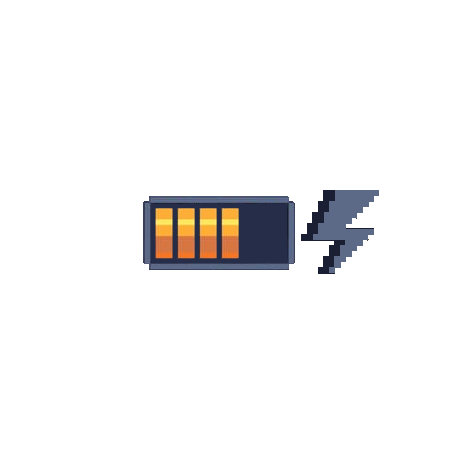
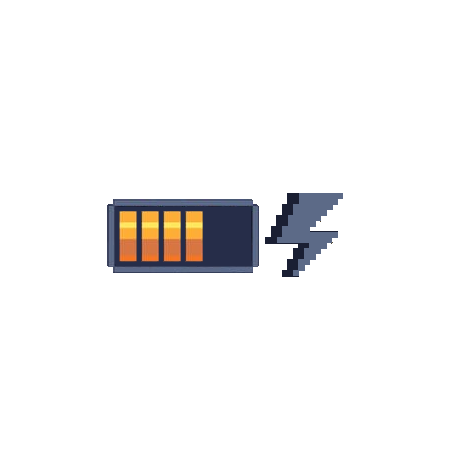
Adjust battery position

Changed region(s): [[0.2178, 0.3872, 0.84, 0.5957]]

diff --git a/dist/main.js b/dist/main.js
@@ -94,7 +94,7 @@
 /***/ (function(module, __webpack_exports__, __webpack_require__) {
 
 "use strict";
-eval("__webpack_require__.r(__webpack_exports__);\n/* harmony export (binding) */ __webpack_require__.d(__webpack_exports__, \"default\", function() { return Battery; });\nclass Battery {\n  constructor(game){\n    this.image0 = document.getElementById(\"battery-0\");\n    this.image1 = document.getElementById(\"battery-1\");\n    this.image2 = document.getElementById(\"battery-2\");\n    this.image3 = document.getElementById(\"battery-3\");\n    this.image4 = document.getElementById(\"battery-4\");\n    this.image5 = document.getElementById(\"battery-5\");\n    this.image6 = document.getElementById(\"battery-6\");\n\n    this.game = game;\n  }\n\n  draw(ctx){\n    console.log(`meter: ${this.game.meter}`);\n    \n    if (this.game.meter > 6) ctx.drawImage(this.image6, 10, 40, 100, 100);\n\n      switch (this.game.meter) {\n      case 0:\n        ctx.drawImage(this.image0, 10, 40, 100, 100);\n        break;\n      case 1:\n        ctx.drawImage(this.image1, 10, 40, 100, 100);\n        break;\n      case 2:\n        ctx.drawImage(this.image2, 10, 40, 100, 100);\n        break;\n      case 3:\n        ctx.drawImage(this.image3, 10, 40, 100, 100);\n        break;\n      case 4:\n        ctx.drawImage(this.image4, 10, 40, 100, 100);\n        break;\n      case 5:\n        ctx.drawImage(this.image5, 10, 40, 100, 100);\n        break;\n      case 6:\n        ctx.drawImage(this.image6, 10, 40, 100, 100);\n        break;\n    }\n    \n  }\n\n  update(dt){\n\n  }\n}\n\n//# sourceURL=webpack:///./src/battery.js?");
+eval("__webpack_require__.r(__webpack_exports__);\n/* harmony export (binding) */ __webpack_require__.d(__webpack_exports__, \"default\", function() { return Battery; });\nclass Battery {\n  constructor(game){\n    this.image0 = document.getElementById(\"battery-0\");\n    this.image1 = document.getElementById(\"battery-1\");\n    this.image2 = document.getElementById(\"battery-2\");\n    this.image3 = document.getElementById(\"battery-3\");\n    this.image4 = document.getElementById(\"battery-4\");\n    this.image5 = document.getElementById(\"battery-5\");\n    this.image6 = document.getElementById(\"battery-6\");\n\n    this.game = game;\n    this.size = 100;\n  }\n\n  draw(ctx){\n    console.log(`meter: ${this.game.meter}`);\n\n    if (this.game.meter > 6) ctx.drawImage(this.image6, -15, -10, this.size, this.size);\n\n      switch (this.game.meter) {\n      case 0:\n        ctx.drawImage(this.image0, -15, -10, this.size, this.size);\n        break;\n      case 1:\n        ctx.drawImage(this.image1, -15, -10, this.size, this.size);\n        break;\n      case 2:\n        ctx.drawImage(this.image2, -15, -10, this.size, this.size);\n        break;\n      case 3:\n        ctx.drawImage(this.image3, -15, -10, this.size, this.size);\n        break;\n      case 4:\n        ctx.drawImage(this.image4, -15, -10, this.size, this.size);\n        break;\n      case 5:\n        ctx.drawImage(this.image5, -15, -10, this.size, this.size);\n        break;\n      case 6:\n        ctx.drawImage(this.image6, -15, -10, this.size, this.size);\n        break;\n    }\n    \n  }\n\n  update(dt){\n\n  }\n}\n\n//# sourceURL=webpack:///./src/battery.js?");
 
 /***/ }),
 
@@ -130,7 +130,7 @@ eval("__webpack_require__.r(__webpack_exports__);\n/* harmony export (binding) *
 /***/ (function(module, __webpack_exports__, __webpack_require__) {
 
 "use strict";
-eval("__webpack_require__.r(__webpack_exports__);\n/* harmony export (binding) */ __webpack_require__.d(__webpack_exports__, \"default\", function() { return Game; });\n/* harmony import */ var _eel__WEBPACK_IMPORTED_MODULE_0__ = __webpack_require__(/*! ./eel */ \"./src/eel.js\");\n/* harmony import */ var _prey__WEBPACK_IMPORTED_MODULE_1__ = __webpack_require__(/*! ./prey */ \"./src/prey.js\");\n/* harmony import */ var _predator__WEBPACK_IMPORTED_MODULE_2__ = __webpack_require__(/*! ./predator */ \"./src/predator.js\");\n/* harmony import */ var _input__WEBPACK_IMPORTED_MODULE_3__ = __webpack_require__(/*! ./input */ \"./src/input.js\");\n/* harmony import */ var _battery__WEBPACK_IMPORTED_MODULE_4__ = __webpack_require__(/*! ./battery */ \"./src/battery.js\");\n\n\n\n\n\n\nconst GAMESTATE = {\n  PAUSED: 0,\n  RUNNING: 1,\n  MENU: 2,\n  GAMEOVER: 3\n};\n\nclass Game {\n  constructor (gameWidth, gameHeight) {\n    this.gameWidth = gameWidth;\n    this.gameHeight = gameHeight;\n    \n    this.gamestate = GAMESTATE.MENU;\n    this.gameObjects = [];\n    this.eel = new _eel__WEBPACK_IMPORTED_MODULE_0__[\"default\"](this);\n    this.battery = new _battery__WEBPACK_IMPORTED_MODULE_4__[\"default\"](this);\n    this.lives = 1;\n    this.score = 0;\n    this.meter = 0;\n\n    new _input__WEBPACK_IMPORTED_MODULE_3__[\"default\"](this.eel, this);\n  }\n\n  start() {\n    if (this.gamestate !== GAMESTATE.MENU) {\n          return;\n        }\n\n    let prey = [];\n    let predators = [];\n\n    for(let i = 0; i < 4; i++){\n      prey.push(new _prey__WEBPACK_IMPORTED_MODULE_1__[\"default\"](this));\n      predators.push(new _predator__WEBPACK_IMPORTED_MODULE_2__[\"default\"](this));\n    }\n\n    this.gameObjects = [\n      this.eel,\n      this.battery,\n      ...prey,\n      ...predators\n    ];\n\n    this.gamestate = GAMESTATE.RUNNING;\n  }\n\n  reset() {\n    if (this.gamestate === GAMESTATE.GAMEOVER){\n      location.reload();\n    }\n  }\n\n  update(dt) {\n    if (this.gamestate === GAMESTATE.RUNNING){\n      this.score += 1;\n    }\n\n    if (this.lives === 0) this.gamestate = GAMESTATE.GAMEOVER;\n\n    if (this.gamestate === GAMESTATE.PAUSED || \n        this.gamestate === GAMESTATE.MENU ||\n        this.gamestate === GAMESTATE.GAMEOVER) {\n          return;\n        }\n\n    this.gameObjects.forEach(obj => obj.update(dt));\n  }\n\n  draw(ctx) {\n    this.gameObjects.forEach(obj => obj.draw(ctx));\n\n    // SCORE\n    ctx.font = \"20px Arial\";\n    ctx.fillStyle = \"white\";\n    ctx.textAlign = \"start\";\n    ctx.fillText(this.score, 10, 20);\n\n    // CURRENT \n    // ctx.fillText(this.meter, 10, 40);\n    if (this.eel.current) ctx.fillText(\"CURRENT ON\", 10, 60);\n    \n    // PAUSE\n    if (this.gamestate === GAMESTATE.PAUSED){\n      ctx.rect(0, 0, this.gameWidth, this.gameHeight);\n      ctx.fillStyle = \"rgba(0,0,0,0.5)\";\n      ctx.fill();\n\n      ctx.font = \"20px Arial\";\n      ctx.fillStyle = \"white\";\n      ctx.textAlign = \"center\";\n      ctx.fillText(\"PAUSED\", this.gameWidth / 2, this.gameHeight / 2);\n\n    }\n\n\n    // START MENU\n    if (this.gamestate === GAMESTATE.MENU){\n      ctx.rect(0, 0, this.gameWidth, this.gameHeight);\n      ctx.fillStyle = \"rgba(0,0,0,0.5)\";\n      ctx.fill();\n\n      ctx.font = \"20px Arial\";\n      ctx.fillStyle = \"white\";\n      ctx.textAlign = \"center\";\n      ctx.fillText(\"Press SPACEBAR to start game\", this.gameWidth / 2, this.gameHeight / 2);\n\n    }\n\n    // GAME OVER\n    if (this.gamestate === GAMESTATE.GAMEOVER){\n      ctx.rect(0, 0, this.gameWidth, this.gameHeight);\n      ctx.fillStyle = \"rgba(0,0,0,1)\";\n      ctx.fill();\n\n      ctx.font = \"20px Arial\";\n      ctx.fillStyle = \"white\";\n      ctx.textAlign = \"center\";\n      ctx.fillText(\"GAME OVER\", this.gameWidth / 2, this.gameHeight / 2 - 20);\n      ctx.fillText(`SCORE ${this.score}`, this.gameWidth / 2, this.gameHeight / 2 + 10);\n      ctx.textAlign = \"start\";\n      ctx.fillText(\"Press R to reset\", 10, 20);\n\n    }\n  }\n\n  togglePause(){\n    if (this.gamestate == GAMESTATE.PAUSED){\n      this.gamestate = GAMESTATE.RUNNING;\n    } else {\n      this.gamestate = GAMESTATE.PAUSED;\n    }\n  }\n}\n\n//# sourceURL=webpack:///./src/game.js?");
+eval("__webpack_require__.r(__webpack_exports__);\n/* harmony export (binding) */ __webpack_require__.d(__webpack_exports__, \"default\", function() { return Game; });\n/* harmony import */ var _eel__WEBPACK_IMPORTED_MODULE_0__ = __webpack_require__(/*! ./eel */ \"./src/eel.js\");\n/* harmony import */ var _prey__WEBPACK_IMPORTED_MODULE_1__ = __webpack_require__(/*! ./prey */ \"./src/prey.js\");\n/* harmony import */ var _predator__WEBPACK_IMPORTED_MODULE_2__ = __webpack_require__(/*! ./predator */ \"./src/predator.js\");\n/* harmony import */ var _input__WEBPACK_IMPORTED_MODULE_3__ = __webpack_require__(/*! ./input */ \"./src/input.js\");\n/* harmony import */ var _battery__WEBPACK_IMPORTED_MODULE_4__ = __webpack_require__(/*! ./battery */ \"./src/battery.js\");\n\n\n\n\n\n\nconst GAMESTATE = {\n  PAUSED: 0,\n  RUNNING: 1,\n  MENU: 2,\n  GAMEOVER: 3\n};\n\nclass Game {\n  constructor (gameWidth, gameHeight) {\n    this.gameWidth = gameWidth;\n    this.gameHeight = gameHeight;\n    \n    this.gamestate = GAMESTATE.MENU;\n    this.gameObjects = [];\n    this.eel = new _eel__WEBPACK_IMPORTED_MODULE_0__[\"default\"](this);\n    this.battery = new _battery__WEBPACK_IMPORTED_MODULE_4__[\"default\"](this);\n    this.lives = 1;\n    this.score = 0;\n    this.meter = 0;\n\n    new _input__WEBPACK_IMPORTED_MODULE_3__[\"default\"](this.eel, this);\n  }\n\n  start() {\n    if (this.gamestate !== GAMESTATE.MENU) {\n          return;\n        }\n\n    let prey = [];\n    let predators = [];\n\n    for(let i = 0; i < 4; i++){\n      prey.push(new _prey__WEBPACK_IMPORTED_MODULE_1__[\"default\"](this));\n      predators.push(new _predator__WEBPACK_IMPORTED_MODULE_2__[\"default\"](this));\n    }\n\n    this.gameObjects = [\n      this.eel,\n      this.battery,\n      ...prey,\n      ...predators\n    ];\n\n    this.gamestate = GAMESTATE.RUNNING;\n  }\n\n  reset() {\n    if (this.gamestate === GAMESTATE.GAMEOVER){\n      location.reload();\n    }\n  }\n\n  update(dt) {\n    if (this.gamestate === GAMESTATE.RUNNING){\n      this.score += 1;\n    }\n\n    if (this.lives === 0) this.gamestate = GAMESTATE.GAMEOVER;\n\n    if (this.gamestate === GAMESTATE.PAUSED || \n        this.gamestate === GAMESTATE.MENU ||\n        this.gamestate === GAMESTATE.GAMEOVER) {\n          return;\n        }\n\n    this.gameObjects.forEach(obj => obj.update(dt));\n  }\n\n  draw(ctx) {\n    this.gameObjects.forEach(obj => obj.draw(ctx));\n\n    // SCORE\n    ctx.font = \"20px Arial\";\n    ctx.fillStyle = \"white\";\n    ctx.textAlign = \"start\";\n    ctx.fillText(this.score, 10, 20);\n\n    // CURRENT \n    if (this.eel.current) ctx.fillText(\"CURRENT ON\", 10, 60);\n    \n    // PAUSE\n    if (this.gamestate === GAMESTATE.PAUSED){\n      ctx.rect(0, 0, this.gameWidth, this.gameHeight);\n      ctx.fillStyle = \"rgba(0,0,0,0.5)\";\n      ctx.fill();\n\n      ctx.font = \"20px Arial\";\n      ctx.fillStyle = \"white\";\n      ctx.textAlign = \"center\";\n      ctx.fillText(\"PAUSED\", this.gameWidth / 2, this.gameHeight / 2);\n\n    }\n\n\n    // START MENU\n    if (this.gamestate === GAMESTATE.MENU){\n      ctx.rect(0, 0, this.gameWidth, this.gameHeight);\n      ctx.fillStyle = \"rgba(0,0,0,0.5)\";\n      ctx.fill();\n\n      ctx.font = \"20px Arial\";\n      ctx.fillStyle = \"white\";\n      ctx.textAlign = \"center\";\n      ctx.fillText(\"Press SPACEBAR to start game\", this.gameWidth / 2, this.gameHeight / 2);\n\n    }\n\n    // GAME OVER\n    if (this.gamestate === GAMESTATE.GAMEOVER){\n      ctx.rect(0, 0, this.gameWidth, this.gameHeight);\n      ctx.fillStyle = \"rgba(0,0,0,1)\";\n      ctx.fill();\n\n      ctx.font = \"20px Arial\";\n      ctx.fillStyle = \"white\";\n      ctx.textAlign = \"center\";\n      ctx.fillText(\"GAME OVER\", this.gameWidth / 2, this.gameHeight / 2 - 20);\n      ctx.fillText(`SCORE ${this.score}`, this.gameWidth / 2, this.gameHeight / 2 + 10);\n      ctx.textAlign = \"start\";\n      ctx.fillText(\"Press R to reset\", 10, 20);\n\n    }\n  }\n\n  togglePause(){\n    if (this.gamestate == GAMESTATE.PAUSED){\n      this.gamestate = GAMESTATE.RUNNING;\n    } else {\n      this.gamestate = GAMESTATE.PAUSED;\n    }\n  }\n}\n\n//# sourceURL=webpack:///./src/game.js?");
 
 /***/ }),
 

diff --git a/src/battery.js b/src/battery.js
@@ -9,34 +9,35 @@ export default class Battery {
     this.image6 = document.getElementById("battery-6");
 
     this.game = game;
+    this.size = 100;
   }
 
   draw(ctx){
     console.log(`meter: ${this.game.meter}`);
-    
-    if (this.game.meter > 6) ctx.drawImage(this.image6, 10, 40, 100, 100);
+
+    if (this.game.meter > 6) ctx.drawImage(this.image6, -15, -10, this.size, this.size);
 
       switch (this.game.meter) {
       case 0:
-        ctx.drawImage(this.image0, 10, 40, 100, 100);
+        ctx.drawImage(this.image0, -15, -10, this.size, this.size);
         break;
       case 1:
-        ctx.drawImage(this.image1, 10, 40, 100, 100);
+        ctx.drawImage(this.image1, -15, -10, this.size, this.size);
         break;
       case 2:
-        ctx.drawImage(this.image2, 10, 40, 100, 100);
+        ctx.drawImage(this.image2, -15, -10, this.size, this.size);
         break;
       case 3:
-        ctx.drawImage(this.image3, 10, 40, 100, 100);
+        ctx.drawImage(this.image3, -15, -10, this.size, this.size);
         break;
       case 4:
-        ctx.drawImage(this.image4, 10, 40, 100, 100);
+        ctx.drawImage(this.image4, -15, -10, this.size, this.size);
         break;
       case 5:
-        ctx.drawImage(this.image5, 10, 40, 100, 100);
+        ctx.drawImage(this.image5, -15, -10, this.size, this.size);
         break;
       case 6:
-        ctx.drawImage(this.image6, 10, 40, 100, 100);
+        ctx.drawImage(this.image6, -15, -10, this.size, this.size);
         break;
     }
     

diff --git a/src/game.js b/src/game.js
@@ -82,7 +82,6 @@ export default class Game {
     ctx.fillText(this.score, 10, 20);
 
     // CURRENT 
-    // ctx.fillText(this.meter, 10, 40);
     if (this.eel.current) ctx.fillText("CURRENT ON", 10, 60);
     
     // PAUSE
